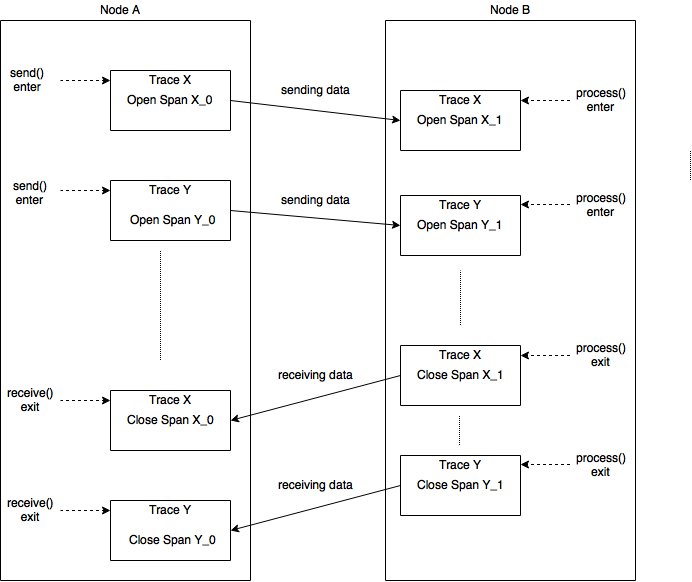
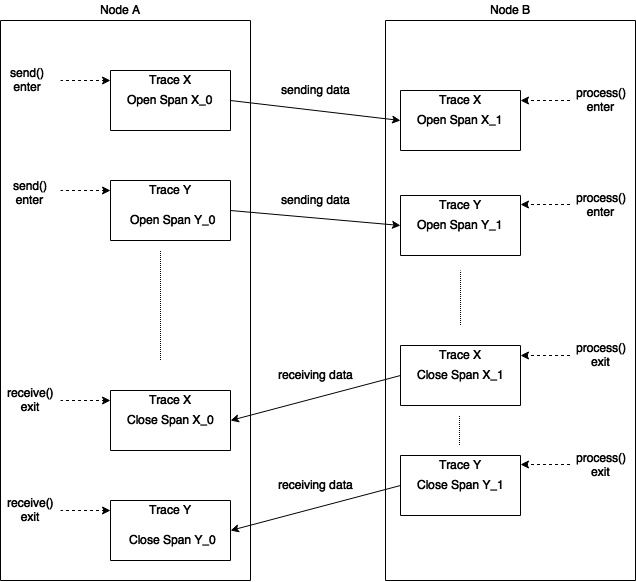
stylistic fix

diff --git a/en/design.tex b/en/design.tex
@@ -37,7 +37,7 @@ The Figure \ref{fig:architecture} denotes the basic relationships between the ma
 The Figure \ref{fig:full_overview} shows how trace trees and spans are related on a simple two nodes example. Each trace is separated from each other and represents tracing of a single computation, which consists of several spans. Spans denote more local computations and can also contain additional application-specific information. In order to connect the information from multiple nodes, the trace information needs to be exchanged between the communicating nodes. That is also the reason why in this case, the methods \texttt{send()}, \texttt{receive()} and \texttt{process()} need to be instrumented. These methods also open and close spans at the correct places in the code.
 \begin{figure}
 	\centering
-	\includegraphics[scale=0.56]{full_overview.png}
+	\includegraphics[scale=0.63]{full_overview.png}
 	\caption{Trace and span demonstration. }
 	\label{fig:full_overview}
 \end{figure}
